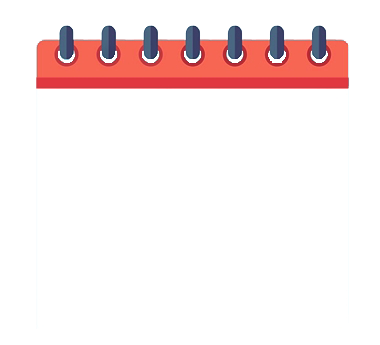
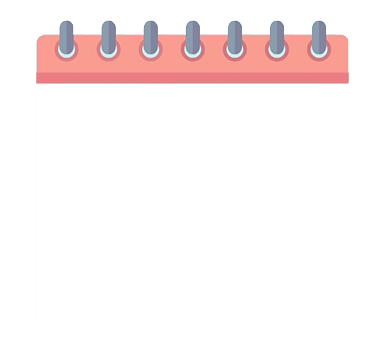
Add darkCalendar images

Changed region(s): [[0.0868, 0.058, 0.9263, 0.2609]]

diff --git a/lib/View/tableCalendar.dart b/lib/View/tableCalendar.dart
@@ -1,6 +1,7 @@
 import 'package:flutter/material.dart';
 import 'package:intl/intl.dart';
 import 'package:table_calendar/table_calendar.dart';
+import 'package:taskmanager/Assets/image/Image.dart';
 import 'package:taskmanager/Model/taskHelper.dart';
 import 'package:taskmanager/View/TaskPage.dart';
 import 'package:taskmanager/Widgets/TaskCard.dart';
@@ -127,18 +128,15 @@ class _TableCalendarPageState extends State<TableCalendarPage> {
                                           fontWeight: FontWeight.bold),
                                     ),
                                   )
-                                : Padding(
-                                    padding: const EdgeInsets.only(
-                                      top: 20.0,
-                                      left: 20,
-                                    ),
-                                    child: Text(
-                                      "Sem tarefa para ${DateFormat("d 'de' MMMM", "pt").format(_selectedDay)}",
+                                :  Image.asset(Assets.calendar,scale: 2,),
+                                   /*  Text(
+                                      Assets.calendar,
+                                      //"Sem tarefa para ${DateFormat("d 'de' MMMM", "pt").format(_selectedDay)}",
                                       style: TextStyle(
                                           fontSize: 18,
                                           fontWeight: FontWeight.bold),
-                                    ),
-                                  ),
+                                    ), */
+                                  
                             TaskCard(widget.helper, eventos, _getAllTasks, null,
                                 _showTask),
                           ],

diff --git a/lib/Assets/image/Image.dart b/lib/Assets/image/Image.dart
@@ -1,4 +1,7 @@
 class Assets{
   static final emptyState = "lib/Assets/image/EmptyState.png";
 static final calendar = "lib/Assets/image/calendar.png";
+static final darkCalendar = "lib/Assets/image/darkCalendar.jpg";
+static final lightCalendar ='lib/Assets/image/lightCalendar.jpg';
+   
 }
